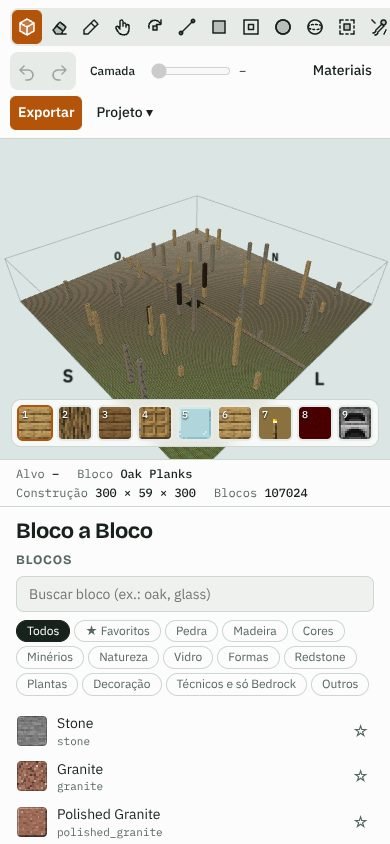
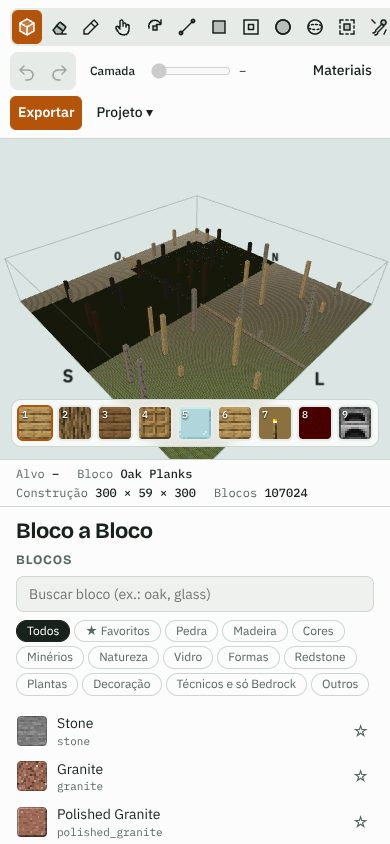
Bloco Air (apagar): com ele na hotbar, pincel, formas, preencher e pincel de troca apagam
Claude-Session: https://claude.ai/code/session_01JyiX1qU1TmM8hzKqaAeyea

Changed region(s): [[0.0923, 0.2773, 0.6769, 0.4621]]

diff --git a/guia/guia.html b/guia/guia.html
@@ -122,7 +122,7 @@ ol.steps li::marker{font:600 14px var(--mono);color:var(--accent)}
   <p class="lead">O editor 3D de construções de Minecraft que roda no navegador: monte bloco a bloco, veja com as texturas do seu pacote e leve para o jogo como <code>.mcstructure</code> (Bedrock) ou <code>.schem</code> (Java). Este guia passa por todas as funções do site, com capturas da própria tela.</p>
   <p>Endereço: <a href="https://mooncake-cmd.github.io/Bloco-a-Bloco/" target="_blank" rel="noopener">mooncake-cmd.github.io/Bloco-a-Bloco</a>. Funciona no Chrome e no Edge, no computador e no celular, sem instalar nada e sem conta.</p>
   <div class="facts">
-    <div class="fact"><b>1.088</b><span>blocos na paleta (mais 62 variantes de parede usadas sozinhas)</span></div>
+    <div class="fact"><b>1.089</b><span>blocos na paleta (mais 62 variantes de parede usadas sozinhas)</span></div>
     <div class="fact"><b>13</b><span>ferramentas, mais simetria em X, Y e Z</span></div>
     <div class="fact"><b>13</b><span>categorias de blocos</span></div>
     <div class="fact"><b>2 + 1</b><span>formatos de saída e entrada: .mcstructure, .schem e projeto .json</span></div>
@@ -251,6 +251,7 @@ ol.steps li::marker{font:600 14px var(--mono);color:var(--accent)}
     <li>O centro do volume é o bloco apontado pelo ponteiro (a partir da câmera). Com a Camada ligada, nada acima dela muda.</li>
     <li>Um traço inteiro (do clique até soltar) é um passo de <kbd>Ctrl</kbd>+<kbd>Z</kbd>; ao soltar, o aviso diz quantos blocos foram trocados.</li>
     <li>O raio e a forma ficam guardados no navegador; a máscara vale até você escolher outra.</li>
+    <li><b>Apagar só um tipo de bloco</b>: ponha o <b>Air (apagar)</b> na hotbar (categoria Técnicos e só Bedrock) e use-o como destino. Ex.: máscara Tijolos + Air apaga só os tijolos dentro do pincel, sem tocar no resto da construção. Ótimo para limpar um material de uma construção grande.</li>
     <li>Para trocar numa área retangular inteira de uma vez, use <b>Selecionar → Substituir…</b> (abaixo).</li>
   </ul>
 
@@ -391,7 +392,7 @@ ol.steps li::marker{font:600 14px var(--mono);color:var(--accent)}
 <section id="paleta">
   <h2><span class="n">06</span>Paleta e hotbar</h2>
   <div class="grid4">
-    <figure><img src="img/paleta.jpg" alt="Paleta em Todos" width="308" height="800" loading="lazy"><figcaption>Todos (1.088)</figcaption></figure>
+    <figure><img src="img/paleta.jpg" alt="Paleta em Todos" width="308" height="800" loading="lazy"><figcaption>Todos (1.089)</figcaption></figure>
     <figure><img src="img/paleta-formas.jpg" alt="Paleta na categoria Formas" width="308" height="800" loading="lazy"><figcaption>Formas (267)</figcaption></figure>
     <figure><img src="img/paleta-busca.jpg" alt="Busca por stairs" width="308" height="800" loading="lazy"><figcaption>Busca “stairs”</figcaption></figure>
     <figure><img src="img/paleta-tecnicos.jpg" alt="Categoria Técnicos e só Bedrock" width="308" height="800" loading="lazy"><figcaption>Técnicos e só Bedrock (21)</figcaption></figure>
@@ -415,7 +416,7 @@ ol.steps li::marker{font:600 14px var(--mono);color:var(--accent)}
       <tr><td>Redstone</td><td>Pó, repetidor, comparador, alavanca, botões, placas de pressão, trilhos, pistões, linha de armadilha, TNT…</td><td class="num">58</td></tr>
       <tr><td>Plantas</td><td>Flores, mudas, plantações, cogumelos, corais, cipós, folhagens</td><td class="num">160</td></tr>
       <tr><td>Decoração</td><td>Camas, baús, placas, estandartes, cabeças, lanternas, bolo, bigorna, caldeirão, velas, moldura do portal do Fim, estante entalhada, núcleo pesado…</td><td class="num">199</td></tr>
-      <tr><td>Técnicos e só Bedrock</td><td>Blocos de comando, estrutura, quebra-cabeça, luz, água, lava e os 11 blocos que só existem no Bedrock</td><td class="num">21</td></tr>
+      <tr><td>Técnicos e só Bedrock</td><td>Ar (para apagar), blocos de comando, estrutura, quebra-cabeça, luz, água, lava e os 11 blocos que só existem no Bedrock</td><td class="num">22</td></tr>
       <tr><td>Outros</td><td>O que não se encaixa acima (estantes, mesas de trabalho, blocos especiais)</td><td class="num">43</td></tr>
     </tbody>
   </table></div>
@@ -466,6 +467,7 @@ ol.steps li::marker{font:600 14px var(--mono);color:var(--accent)}
   <h3>Técnicos e só Bedrock</h3>
   <figure><img src="img/inventario.jpg" alt="Os 32 itens do inventário de teste, incluindo blocos de comando, portais, fogo, água e blocos só do Bedrock" width="972" height="640" loading="lazy"><figcaption>Blocos técnicos e só do Bedrock no editor.</figcaption></figure>
   <ul class="plain">
+    <li><b>Air (apagar)</b>: não é um bloco de verdade, é o “nada”. Com ele na hotbar, o pincel apaga (como a borracha, com os mesmos tamanhos), as formas apagam a área, o pincel de troca apaga só o bloco da máscara e Preencher o chão sem “só nos espaços vazios” limpa a camada. Nunca vai para a construção nem para a exportação.</li>
     <li><b>Técnicos</b> (existem nos dois jogos): bloco de comando (normal, em cadeia, repetidor), bloco de estrutura, quebra-cabeça, vazio de estrutura, bloco de luz (níveis 0 a 15), rocha-mãe, água, lava, cabeça de pistão. Saem sem comando e sem configuração.</li>
     <li><b>Só Bedrock</b> (marcados “só Bedrock” no nome): allow, deny, border, camera, obsidiana brilhante, núcleo do reator do Nether, rocha-mãe invisível e, da Education Edition, calor químico, vidro reforçado, painel de vidro reforçado e tocha subaquática. Vão no .mcstructure; ficam de fora do .schem, com aviso.</li>
     <li>Luz, vazio de estrutura e rocha-mãe invisível são invisíveis no jogo; aqui aparecem como cubinhos translúcidos. Água e lava escorrem também aqui (veja acima).</li>

diff --git a/guia/index.html b/guia/index.html
@@ -124,7 +124,7 @@ ol.steps li::marker{font:600 14px var(--mono);color:var(--accent)}
   <p class="lead">O editor 3D de construções de Minecraft que roda no navegador: monte bloco a bloco, veja com as texturas do seu pacote e leve para o jogo como <code>.mcstructure</code> (Bedrock) ou <code>.schem</code> (Java). Este guia passa por todas as funções do site, com capturas da própria tela.</p>
   <p>Endereço: <a href="https://mooncake-cmd.github.io/Bloco-a-Bloco/" target="_blank" rel="noopener">mooncake-cmd.github.io/Bloco-a-Bloco</a>. Funciona no Chrome e no Edge, no computador e no celular, sem instalar nada e sem conta.</p>
   <div class="facts">
-    <div class="fact"><b>1.088</b><span>blocos na paleta (mais 62 variantes de parede usadas sozinhas)</span></div>
+    <div class="fact"><b>1.089</b><span>blocos na paleta (mais 62 variantes de parede usadas sozinhas)</span></div>
     <div class="fact"><b>13</b><span>ferramentas, mais simetria em X, Y e Z</span></div>
     <div class="fact"><b>13</b><span>categorias de blocos</span></div>
     <div class="fact"><b>2 + 1</b><span>formatos de saída e entrada: .mcstructure, .schem e projeto .json</span></div>
@@ -253,6 +253,7 @@ ol.steps li::marker{font:600 14px var(--mono);color:var(--accent)}
     <li>O centro do volume é o bloco apontado pelo ponteiro (a partir da câmera). Com a Camada ligada, nada acima dela muda.</li>
     <li>Um traço inteiro (do clique até soltar) é um passo de <kbd>Ctrl</kbd>+<kbd>Z</kbd>; ao soltar, o aviso diz quantos blocos foram trocados.</li>
     <li>O raio e a forma ficam guardados no navegador; a máscara vale até você escolher outra.</li>
+    <li><b>Apagar só um tipo de bloco</b>: ponha o <b>Air (apagar)</b> na hotbar (categoria Técnicos e só Bedrock) e use-o como destino. Ex.: máscara Tijolos + Air apaga só os tijolos dentro do pincel, sem tocar no resto da construção. Ótimo para limpar um material de uma construção grande.</li>
     <li>Para trocar numa área retangular inteira de uma vez, use <b>Selecionar → Substituir…</b> (abaixo).</li>
   </ul>
 
@@ -393,7 +394,7 @@ ol.steps li::marker{font:600 14px var(--mono);color:var(--accent)}
 <section id="paleta">
   <h2><span class="n">06</span>Paleta e hotbar</h2>
   <div class="grid4">
-    <figure><img src="img/paleta.jpg" alt="Paleta em Todos" width="308" height="800" loading="lazy"><figcaption>Todos (1.088)</figcaption></figure>
+    <figure><img src="img/paleta.jpg" alt="Paleta em Todos" width="308" height="800" loading="lazy"><figcaption>Todos (1.089)</figcaption></figure>
     <figure><img src="img/paleta-formas.jpg" alt="Paleta na categoria Formas" width="308" height="800" loading="lazy"><figcaption>Formas (267)</figcaption></figure>
     <figure><img src="img/paleta-busca.jpg" alt="Busca por stairs" width="308" height="800" loading="lazy"><figcaption>Busca “stairs”</figcaption></figure>
     <figure><img src="img/paleta-tecnicos.jpg" alt="Categoria Técnicos e só Bedrock" width="308" height="800" loading="lazy"><figcaption>Técnicos e só Bedrock (21)</figcaption></figure>
@@ -417,7 +418,7 @@ ol.steps li::marker{font:600 14px var(--mono);color:var(--accent)}
       <tr><td>Redstone</td><td>Pó, repetidor, comparador, alavanca, botões, placas de pressão, trilhos, pistões, linha de armadilha, TNT…</td><td class="num">58</td></tr>
       <tr><td>Plantas</td><td>Flores, mudas, plantações, cogumelos, corais, cipós, folhagens</td><td class="num">160</td></tr>
       <tr><td>Decoração</td><td>Camas, baús, placas, estandartes, cabeças, lanternas, bolo, bigorna, caldeirão, velas, moldura do portal do Fim, estante entalhada, núcleo pesado…</td><td class="num">199</td></tr>
-      <tr><td>Técnicos e só Bedrock</td><td>Blocos de comando, estrutura, quebra-cabeça, luz, água, lava e os 11 blocos que só existem no Bedrock</td><td class="num">21</td></tr>
+      <tr><td>Técnicos e só Bedrock</td><td>Ar (para apagar), blocos de comando, estrutura, quebra-cabeça, luz, água, lava e os 11 blocos que só existem no Bedrock</td><td class="num">22</td></tr>
       <tr><td>Outros</td><td>O que não se encaixa acima (estantes, mesas de trabalho, blocos especiais)</td><td class="num">43</td></tr>
     </tbody>
   </table></div>
@@ -468,6 +469,7 @@ ol.steps li::marker{font:600 14px var(--mono);color:var(--accent)}
   <h3>Técnicos e só Bedrock</h3>
   <figure><img src="img/inventario.jpg" alt="Os 32 itens do inventário de teste, incluindo blocos de comando, portais, fogo, água e blocos só do Bedrock" width="972" height="640" loading="lazy"><figcaption>Blocos técnicos e só do Bedrock no editor.</figcaption></figure>
   <ul class="plain">
+    <li><b>Air (apagar)</b>: não é um bloco de verdade, é o “nada”. Com ele na hotbar, o pincel apaga (como a borracha, com os mesmos tamanhos), as formas apagam a área, o pincel de troca apaga só o bloco da máscara e Preencher o chão sem “só nos espaços vazios” limpa a camada. Nunca vai para a construção nem para a exportação.</li>
     <li><b>Técnicos</b> (existem nos dois jogos): bloco de comando (normal, em cadeia, repetidor), bloco de estrutura, quebra-cabeça, vazio de estrutura, bloco de luz (níveis 0 a 15), rocha-mãe, água, lava, cabeça de pistão. Saem sem comando e sem configuração.</li>
     <li><b>Só Bedrock</b> (marcados “só Bedrock” no nome): allow, deny, border, camera, obsidiana brilhante, núcleo do reator do Nether, rocha-mãe invisível e, da Education Edition, calor químico, vidro reforçado, painel de vidro reforçado e tocha subaquática. Vão no .mcstructure; ficam de fora do .schem, com aviso.</li>
     <li>Luz, vazio de estrutura e rocha-mãe invisível são invisíveis no jogo; aqui aparecem como cubinhos translúcidos. Água e lava escorrem também aqui (veja acima).</li>

diff --git a/dist/artifact.html b/dist/artifact.html
@@ -563,12 +563,19 @@ var BLOCKS = BLOCKS_RAW.map(function (r) {
     jt: jt, bt: r[8] ? six(r[8]) : null, tint: tint6(r[9] || 0), ori: r[10] || null, bst: r[11] || null,
     tile: jt.map(function () { return -1; }), solid: r[6] !== 1, icon: '' };
 });
+/* "Ar": não é um bloco de verdade e nunca fica guardado no mundo (mkCell devolve 0). Com ele na hotbar, o pincel apaga
+   e as formas, o preencher e o pincel de troca põem ar no lugar (ex.: máscara Pedra + Ar = apagar só a pedra). */
+var AIR_GREY = [214, 222, 226];
+BLOCKS.push({ java: 'air', name: 'Air (apagar)', bedrock: 'air', top: AIR_GREY, side: AIR_GREY, bottom: AIR_GREY, kind: 1, glass: true,
+  jt: [], bt: [], tint: tint6(0), ori: null, bst: null, tile: [], solid: false, icon: '', isAir: true });
+var AIR_BI = BLOCKS.length - 1;
 /* Célula do mundo (32 bits): bits 0-11 = índice do bloco + 1; acima disso, o estado: índice em ori.o nos cubos que giram,
    ou as propriedades guardadas das formas (base mista, ver stateIndex) */
 var OSH = 12, IMASK = 4095;
 function cellBlock(v) { return (v & IMASK) - 1; }
 function cellOri(v) { return Math.floor(v / 4096); }
 function mkCell(bi, o) {
+  if (bi === AIR_BI) return 0;
   var b = BLOCKS[bi], s = 0;
   if (b.shape) s = o == null || o < 0 ? defaultState(b) : o;
   else if (b.ori) s = o == null || o < 0 ? b.ori.d : o;
@@ -879,6 +886,7 @@ var CATS = [
 ];
 function catOf(b) {
   var n = b.java;
+  if (b.isAir) return 'tecnico';
   if (b.shape) {
     if (b.bo || /^(command_block|chain_command_block|repeating_command_block|structure_block|structure_void|jigsaw|light|water|lava|piston_head)$/.test(n)) return 'tecnico';
     if (/redstone|repeater|comparator|lever|_button|pressure_plate|tripwire|rail$|piston|daylight|target|hopper|lightning_rod|sculk_sensor|lectern|tnt/.test(n)) return 'redstone';
@@ -897,6 +905,7 @@ function catOf(b) {
 BLOCKS.forEach(function (b) { b.cat = catOf(b); b.hay = (b.java + ' ' + b.name).toLowerCase(); });
 function rgb(c) { return 'rgb(' + c[0] + ',' + c[1] + ',' + c[2] + ')'; }
 function swatch(b) {
+  if (b.isAir) return 'background:repeating-linear-gradient(45deg,transparent 0 5px,rgba(200,60,40,.35) 5px 7px),' + rgb(b.side);
   if (b.icon) return 'background:' + b.icon + ' 0 0/100% 100% no-repeat,' + rgb(b.side) + ';image-rendering:pixelated';
   return 'background:linear-gradient(to bottom,' + rgb(b.top) + ' 0,' + rgb(b.top) + ' 28%,' + rgb(b.side) + ' 28%,' + rgb(b.side) + ' 100%)';
 }
@@ -1379,7 +1388,7 @@ function targetAt(cx, cy) {
 /* Visual do alvo */
 var hoverT = null, hoverXY = null;
 function setBoxAt(mesh, c) { mesh.position.set(c[0] + 0.5, c[1] + 0.5, c[2] + 0.5); }
-function effTool(shift) { return tool === 'place' && shift ? 'erase' : tool; }
+function effTool(shift) { return tool === 'place' && (shift || curBlock() === AIR_BI) ? 'erase' : tool; }
 var lastShift = false;
 function updatePreview() {
   ghostEdges.visible = false; ghostFill.visible = false; previewInst.count = 0; ghostEdges.scale.set(1, 1, 1);
@@ -1569,7 +1578,7 @@ function commitShape(kind, a, b, erase, t) {
     editSet(c[0], c[1], c[2], v);
   }
   endBatch();
-  toast((erase ? 'Apagados ' : 'Colocados ') + cells.length + ' blocos');
+  toast((erase || !v ? 'Apagados ' : 'Colocados ') + cells.length + ' blocos');
 }
 function pressAt(cx, cy, shift) {
   var t = targetAt(cx, cy); hoverT = t; lastShift = shift;
@@ -1628,7 +1637,7 @@ function dragAt(cx, cy) {
 }
 function releaseStroke() {
   if (stroke && stroke.mode === 'sculpt') sculptEnd();
-  if (stroke) { var sm = stroke; stroke = null; endBatch(); if (sm.mode === 'mask' && maskBi >= 0) toast(sm.n ? sm.n + ' blocos de ' + BLOCKS[maskBi].name + ' trocados por ' + BLOCKS[curBlock()].name + '.' : 'Nenhum ' + BLOCKS[maskBi].name + ' dentro do pincel.'); }
+  if (stroke) { var sm = stroke; stroke = null; endBatch(); if (sm.mode === 'mask' && maskBi >= 0) toast(sm.n ? sm.n + ' blocos de ' + BLOCKS[maskBi].name + (curBlock() === AIR_BI ? ' apagados.' : ' trocados por ' + BLOCKS[curBlock()].name + '.') : 'Nenhum ' + BLOCKS[maskBi].name + ' dentro do pincel.'); }
 }
 
 /* ---------- Ponteiro ---------- */
@@ -1944,7 +1953,7 @@ async function importPack(src, name, depth, prog) {
     BLOCKS.forEach(function (b) {
       // Blocos com frente usam o mapeamento embutido, que já está girado para o estado exportado
       // A abóbora inteira: o blocks.json do Bedrock põe o rosto nela, mas no jogo ela aparece sem rosto
-      var e = !b.ori && !b.shape && b.java !== 'pumpkin' && (blk[b.java === 'grass_block' ? 'grass' : b.bedrock] || blk[b.bedrock]);
+      var e = !b.ori && !b.shape && !b.isAir && b.java !== 'pumpkin' && (blk[b.java === 'grass_block' ? 'grass' : b.bedrock] || blk[b.bedrock]);
       if (e && e.textures) pack.bmap[b.java] = beFaces(e.textures);
       (pack.bmap[b.java] || b.bt || []).forEach(function (n) { if (n) shorts[n] = 1; });
     });

diff --git a/dist/bloco-a-bloco.html b/dist/bloco-a-bloco.html
@@ -571,12 +571,19 @@ var BLOCKS = BLOCKS_RAW.map(function (r) {
     jt: jt, bt: r[8] ? six(r[8]) : null, tint: tint6(r[9] || 0), ori: r[10] || null, bst: r[11] || null,
     tile: jt.map(function () { return -1; }), solid: r[6] !== 1, icon: '' };
 });
+/* "Ar": não é um bloco de verdade e nunca fica guardado no mundo (mkCell devolve 0). Com ele na hotbar, o pincel apaga
+   e as formas, o preencher e o pincel de troca põem ar no lugar (ex.: máscara Pedra + Ar = apagar só a pedra). */
+var AIR_GREY = [214, 222, 226];
+BLOCKS.push({ java: 'air', name: 'Air (apagar)', bedrock: 'air', top: AIR_GREY, side: AIR_GREY, bottom: AIR_GREY, kind: 1, glass: true,
+  jt: [], bt: [], tint: tint6(0), ori: null, bst: null, tile: [], solid: false, icon: '', isAir: true });
+var AIR_BI = BLOCKS.length - 1;
 /* Célula do mundo (32 bits): bits 0-11 = índice do bloco + 1; acima disso, o estado: índice em ori.o nos cubos que giram,
    ou as propriedades guardadas das formas (base mista, ver stateIndex) */
 var OSH = 12, IMASK = 4095;
 function cellBlock(v) { return (v & IMASK) - 1; }
 function cellOri(v) { return Math.floor(v / 4096); }
 function mkCell(bi, o) {
+  if (bi === AIR_BI) return 0;
   var b = BLOCKS[bi], s = 0;
   if (b.shape) s = o == null || o < 0 ? defaultState(b) : o;
   else if (b.ori) s = o == null || o < 0 ? b.ori.d : o;
@@ -887,6 +894,7 @@ var CATS = [
 ];
 function catOf(b) {
   var n = b.java;
+  if (b.isAir) return 'tecnico';
   if (b.shape) {
     if (b.bo || /^(command_block|chain_command_block|repeating_command_block|structure_block|structure_void|jigsaw|light|water|lava|piston_head)$/.test(n)) return 'tecnico';
     if (/redstone|repeater|comparator|lever|_button|pressure_plate|tripwire|rail$|piston|daylight|target|hopper|lightning_rod|sculk_sensor|lectern|tnt/.test(n)) return 'redstone';
@@ -905,6 +913,7 @@ function catOf(b) {
 BLOCKS.forEach(function (b) { b.cat = catOf(b); b.hay = (b.java + ' ' + b.name).toLowerCase(); });
 function rgb(c) { return 'rgb(' + c[0] + ',' + c[1] + ',' + c[2] + ')'; }
 function swatch(b) {
+  if (b.isAir) return 'background:repeating-linear-gradient(45deg,transparent 0 5px,rgba(200,60,40,.35) 5px 7px),' + rgb(b.side);
   if (b.icon) return 'background:' + b.icon + ' 0 0/100% 100% no-repeat,' + rgb(b.side) + ';image-rendering:pixelated';
   return 'background:linear-gradient(to bottom,' + rgb(b.top) + ' 0,' + rgb(b.top) + ' 28%,' + rgb(b.side) + ' 28%,' + rgb(b.side) + ' 100%)';
 }
@@ -1387,7 +1396,7 @@ function targetAt(cx, cy) {
 /* Visual do alvo */
 var hoverT = null, hoverXY = null;
 function setBoxAt(mesh, c) { mesh.position.set(c[0] + 0.5, c[1] + 0.5, c[2] + 0.5); }
-function effTool(shift) { return tool === 'place' && shift ? 'erase' : tool; }
+function effTool(shift) { return tool === 'place' && (shift || curBlock() === AIR_BI) ? 'erase' : tool; }
 var lastShift = false;
 function updatePreview() {
   ghostEdges.visible = false; ghostFill.visible = false; previewInst.count = 0; ghostEdges.scale.set(1, 1, 1);
@@ -1577,7 +1586,7 @@ function commitShape(kind, a, b, erase, t) {
     editSet(c[0], c[1], c[2], v);
   }
   endBatch();
-  toast((erase ? 'Apagados ' : 'Colocados ') + cells.length + ' blocos');
+  toast((erase || !v ? 'Apagados ' : 'Colocados ') + cells.length + ' blocos');
 }
 function pressAt(cx, cy, shift) {
   var t = targetAt(cx, cy); hoverT = t; lastShift = shift;
@@ -1636,7 +1645,7 @@ function dragAt(cx, cy) {
 }
 function releaseStroke() {
   if (stroke && stroke.mode === 'sculpt') sculptEnd();
-  if (stroke) { var sm = stroke; stroke = null; endBatch(); if (sm.mode === 'mask' && maskBi >= 0) toast(sm.n ? sm.n + ' blocos de ' + BLOCKS[maskBi].name + ' trocados por ' + BLOCKS[curBlock()].name + '.' : 'Nenhum ' + BLOCKS[maskBi].name + ' dentro do pincel.'); }
+  if (stroke) { var sm = stroke; stroke = null; endBatch(); if (sm.mode === 'mask' && maskBi >= 0) toast(sm.n ? sm.n + ' blocos de ' + BLOCKS[maskBi].name + (curBlock() === AIR_BI ? ' apagados.' : ' trocados por ' + BLOCKS[curBlock()].name + '.') : 'Nenhum ' + BLOCKS[maskBi].name + ' dentro do pincel.'); }
 }
 
 /* ---------- Ponteiro ---------- */
@@ -1952,7 +1961,7 @@ async function importPack(src, name, depth, prog) {
     BLOCKS.forEach(function (b) {
       // Blocos com frente usam o mapeamento embutido, que já está girado para o estado exportado
       // A abóbora inteira: o blocks.json do Bedrock põe o rosto nela, mas no jogo ela aparece sem rosto
-      var e = !b.ori && !b.shape && b.java !== 'pumpkin' && (blk[b.java === 'grass_block' ? 'grass' : b.bedrock] || blk[b.bedrock]);
+      var e = !b.ori && !b.shape && !b.isAir && b.java !== 'pumpkin' && (blk[b.java === 'grass_block' ? 'grass' : b.bedrock] || blk[b.bedrock]);
       if (e && e.textures) pack.bmap[b.java] = beFaces(e.textures);
       (pack.bmap[b.java] || b.bt || []).forEach(function (n) { if (n) shorts[n] = 1; });
     });

diff --git a/src/app.template.html b/src/app.template.html
@@ -230,12 +230,19 @@ var BLOCKS = BLOCKS_RAW.map(function (r) {
     jt: jt, bt: r[8] ? six(r[8]) : null, tint: tint6(r[9] || 0), ori: r[10] || null, bst: r[11] || null,
     tile: jt.map(function () { return -1; }), solid: r[6] !== 1, icon: '' };
 });
+/* "Ar": não é um bloco de verdade e nunca fica guardado no mundo (mkCell devolve 0). Com ele na hotbar, o pincel apaga
+   e as formas, o preencher e o pincel de troca põem ar no lugar (ex.: máscara Pedra + Ar = apagar só a pedra). */
+var AIR_GREY = [214, 222, 226];
+BLOCKS.push({ java: 'air', name: 'Air (apagar)', bedrock: 'air', top: AIR_GREY, side: AIR_GREY, bottom: AIR_GREY, kind: 1, glass: true,
+  jt: [], bt: [], tint: tint6(0), ori: null, bst: null, tile: [], solid: false, icon: '', isAir: true });
+var AIR_BI = BLOCKS.length - 1;
 /* Célula do mundo (32 bits): bits 0-11 = índice do bloco + 1; acima disso, o estado: índice em ori.o nos cubos que giram,
    ou as propriedades guardadas das formas (base mista, ver stateIndex) */
 var OSH = 12, IMASK = 4095;
 function cellBlock(v) { return (v & IMASK) - 1; }
 function cellOri(v) { return Math.floor(v / 4096); }
 function mkCell(bi, o) {
+  if (bi === AIR_BI) return 0;
   var b = BLOCKS[bi], s = 0;
   if (b.shape) s = o == null || o < 0 ? defaultState(b) : o;
   else if (b.ori) s = o == null || o < 0 ? b.ori.d : o;
@@ -354,6 +361,7 @@ var CATS = [
 ];
 function catOf(b) {
   var n = b.java;
+  if (b.isAir) return 'tecnico';
   if (b.shape) {
     if (b.bo || /^(command_block|chain_command_block|repeating_command_block|structure_block|structure_void|jigsaw|light|water|lava|piston_head)$/.test(n)) return 'tecnico';
     if (/redstone|repeater|comparator|lever|_button|pressure_plate|tripwire|rail$|piston|daylight|target|hopper|lightning_rod|sculk_sensor|lectern|tnt/.test(n)) return 'redstone';
@@ -372,6 +380,7 @@ function catOf(b) {
 BLOCKS.forEach(function (b) { b.cat = catOf(b); b.hay = (b.java + ' ' + b.name).toLowerCase(); });
 function rgb(c) { return 'rgb(' + c[0] + ',' + c[1] + ',' + c[2] + ')'; }
 function swatch(b) {
+  if (b.isAir) return 'background:repeating-linear-gradient(45deg,transparent 0 5px,rgba(200,60,40,.35) 5px 7px),' + rgb(b.side);
   if (b.icon) return 'background:' + b.icon + ' 0 0/100% 100% no-repeat,' + rgb(b.side) + ';image-rendering:pixelated';
   return 'background:linear-gradient(to bottom,' + rgb(b.top) + ' 0,' + rgb(b.top) + ' 28%,' + rgb(b.side) + ' 28%,' + rgb(b.side) + ' 100%)';
 }
@@ -854,7 +863,7 @@ function targetAt(cx, cy) {
 /* Visual do alvo */
 var hoverT = null, hoverXY = null;
 function setBoxAt(mesh, c) { mesh.position.set(c[0] + 0.5, c[1] + 0.5, c[2] + 0.5); }
-function effTool(shift) { return tool === 'place' && shift ? 'erase' : tool; }
+function effTool(shift) { return tool === 'place' && (shift || curBlock() === AIR_BI) ? 'erase' : tool; }
 var lastShift = false;
 function updatePreview() {
   ghostEdges.visible = false; ghostFill.visible = false; previewInst.count = 0; ghostEdges.scale.set(1, 1, 1);
@@ -1044,7 +1053,7 @@ function commitShape(kind, a, b, erase, t) {
     editSet(c[0], c[1], c[2], v);
   }
   endBatch();
-  toast((erase ? 'Apagados ' : 'Colocados ') + cells.length + ' blocos');
+  toast((erase || !v ? 'Apagados ' : 'Colocados ') + cells.length + ' blocos');
 }
 function pressAt(cx, cy, shift) {
   var t = targetAt(cx, cy); hoverT = t; lastShift = shift;
@@ -1103,7 +1112,7 @@ function dragAt(cx, cy) {
 }
 function releaseStroke() {
   if (stroke && stroke.mode === 'sculpt') sculptEnd();
-  if (stroke) { var sm = stroke; stroke = null; endBatch(); if (sm.mode === 'mask' && maskBi >= 0) toast(sm.n ? sm.n + ' blocos de ' + BLOCKS[maskBi].name + ' trocados por ' + BLOCKS[curBlock()].name + '.' : 'Nenhum ' + BLOCKS[maskBi].name + ' dentro do pincel.'); }
+  if (stroke) { var sm = stroke; stroke = null; endBatch(); if (sm.mode === 'mask' && maskBi >= 0) toast(sm.n ? sm.n + ' blocos de ' + BLOCKS[maskBi].name + (curBlock() === AIR_BI ? ' apagados.' : ' trocados por ' + BLOCKS[curBlock()].name + '.') : 'Nenhum ' + BLOCKS[maskBi].name + ' dentro do pincel.'); }
 }
 
 /* ---------- Ponteiro ---------- */
@@ -1419,7 +1428,7 @@ async function importPack(src, name, depth, prog) {
     BLOCKS.forEach(function (b) {
       // Blocos com frente usam o mapeamento embutido, que já está girado para o estado exportado
       // A abóbora inteira: o blocks.json do Bedrock põe o rosto nela, mas no jogo ela aparece sem rosto
-      var e = !b.ori && !b.shape && b.java !== 'pumpkin' && (blk[b.java === 'grass_block' ? 'grass' : b.bedrock] || blk[b.bedrock]);
+      var e = !b.ori && !b.shape && !b.isAir && b.java !== 'pumpkin' && (blk[b.java === 'grass_block' ? 'grass' : b.bedrock] || blk[b.bedrock]);
       if (e && e.textures) pack.bmap[b.java] = beFaces(e.textures);
       (pack.bmap[b.java] || b.bt || []).forEach(function (n) { if (n) shorts[n] = 1; });
     });

diff --git a/README.md b/README.md
@@ -68,6 +68,7 @@ npm test         # valida os exportadores
 - Pincel de troca (`src/maskbrush.js`, ferramenta M): `maskBrush(centro, raio, forma, máscara, destino)` varre a esfera (dx²+dy²+dz² ≤ (r+0,5)²) ou o cubo em volta do bloco atingido pelo raio do ponteiro e troca só as células cujo bloco é a máscara (`convertCell` mantém as propriedades em comum); ar e outros blocos ficam. As trocas entram no lote do traço (`editSet` marca os pedaços da malha); a prévia destaca os voxels que vão mudar.
 - Simetria (`src/symmetry.js`): `editSet` passa por `symPoints`, que gera as posições espelhadas (x' = P - x, P = dobro da posição do plano) e o estado espelhado (`mirrorCell`: lados, rotation de 16 passos, dobradiça, metade/topo no eixo Y). Desfazer e a água (que usam `setRaw`) não são espelhados.
 - Esculpir terreno (`src/sculpt.js`): mapa de alturas por coluna com alturas fracionárias durante o traço; cada pincelada (clique e a cada 70 ms) aplica elevar/afundar/suavizar/aplainar com atenuação (1 - t²)² e converte as colunas de volta para voxels.
+- Air (apagar): entrada extra no fim dos cubos (`AIR_BI`, categoria Técnicos); `mkCell(AIR_BI)` devolve 0, então qualquer ferramenta que põe o bloco da hotbar (pincel vira borracha, formas, preencher, pincel de troca) põe ar. Nunca fica guardado nem é exportado.
 - Câmera orbital própria (botão direito gira, botão do meio ou Shift + direito move, roda dá zoom). Toque: um dedo gira, dois dedos movem e dão zoom.
 
 ## Blocos que não são cubos (formas)
